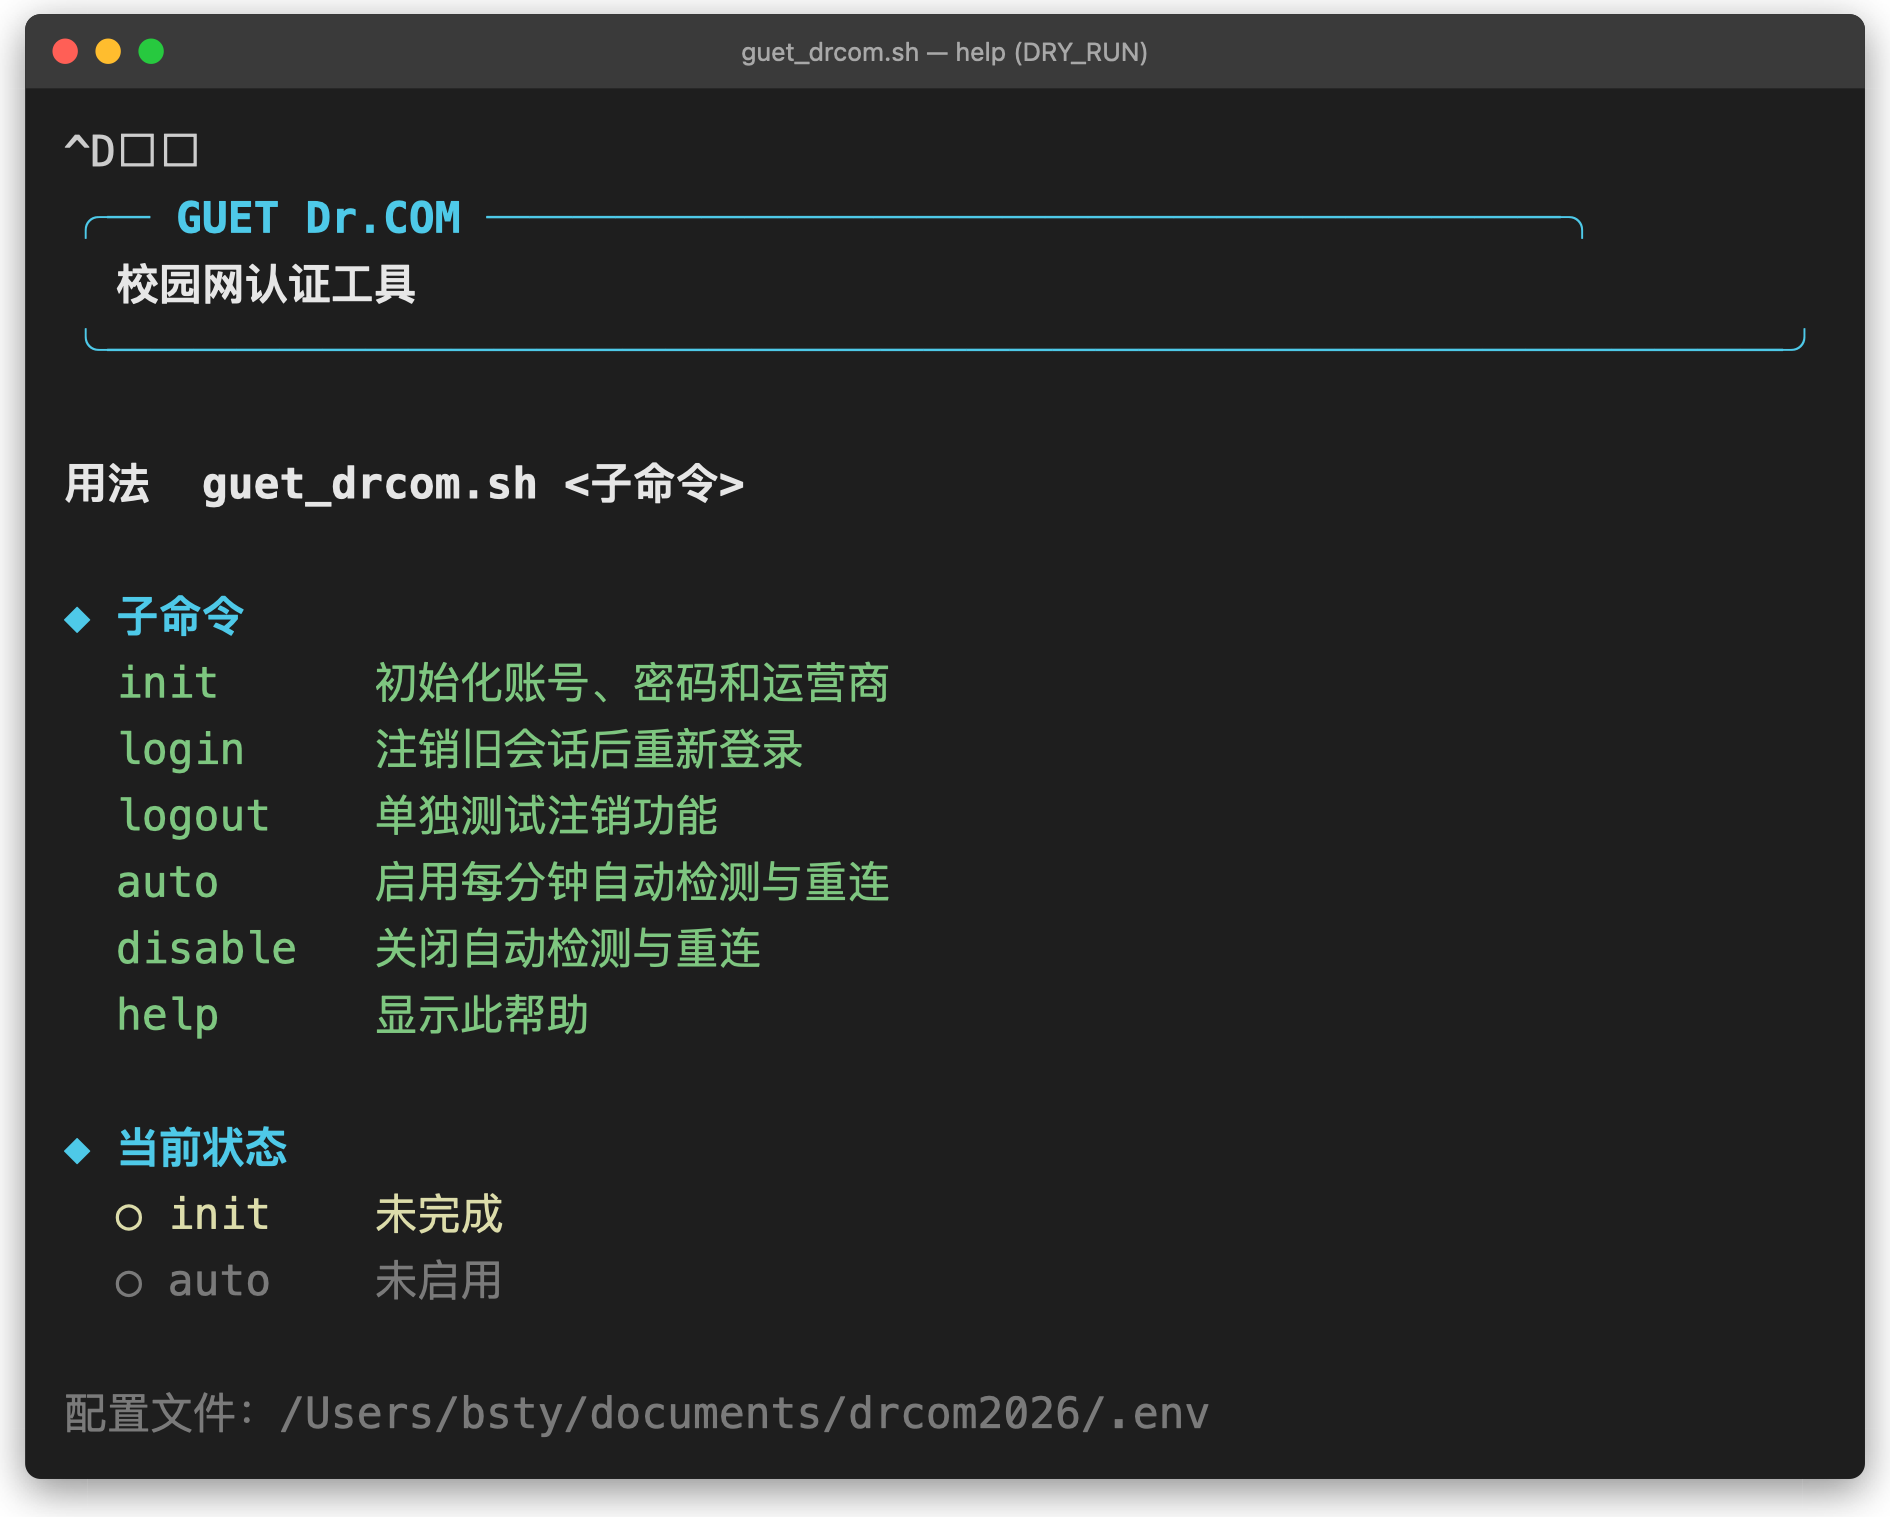
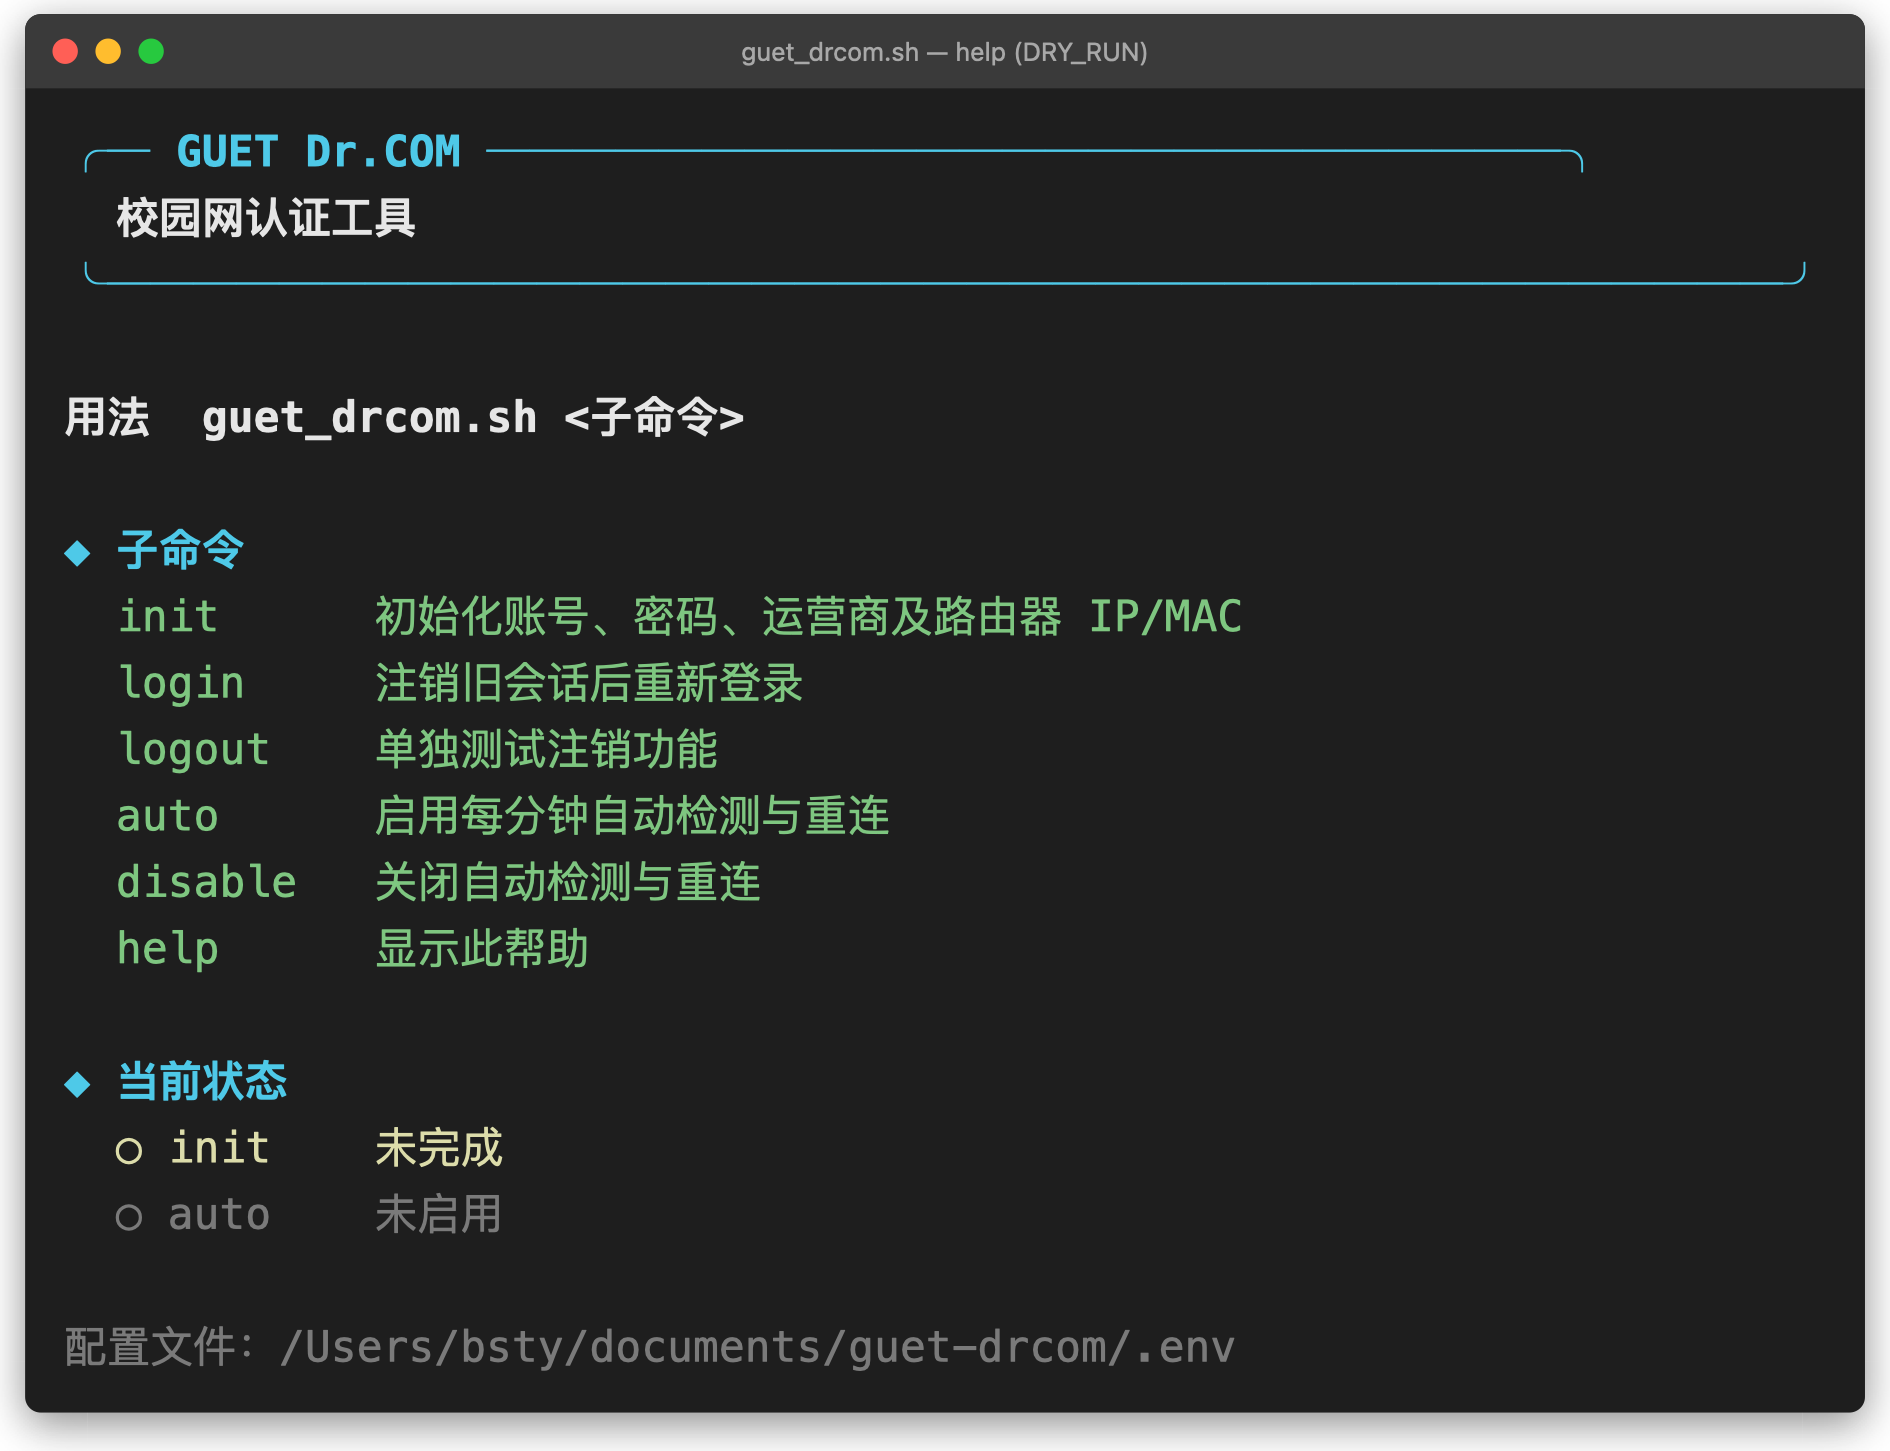
feat: 路由器模式，IP/MAC 改为 init 时手动填写
校园网口下串接路由器、设备接在 LAN 侧时，认证门户看到的是路由器
WAN 口的地址，探测本机网卡没有意义。本分支的改动：

- init 新增路由器 WAN 口 IPv4 / MAC 录入，规范化后存入配置
  （bash: DRCOM_ROUTER_IP / DRCOM_ROUTER_MAC；PowerShell: RouterIp / RouterMac）
- 删除 bash 与 PowerShell 的网卡探测逻辑及 INTERFACE / CLIENT_* 环境变量，
  login / logout / check 一律使用配置中的地址
- 不再处理 IPv6，请求中的 v6ip / wlan_user_ipv6 固定为空
- logout 现在也需要先 init
- 旧版配置缺少路由器字段时给出提示并要求重新 init
- README 说明适用场景、如何查看 WAN 口信息及 IP 变化后的处理；重新生成
  help / login / logout 截图

diff --git a/README.md b/README.md
@@ -8,6 +8,8 @@
 
 两个版本认证流程一致，按平台选其一即可。
 
+> **本分支（`router`）适用于校园网口下串接了路由器的场景**：电脑等设备接在路由器 LAN 侧，认证门户看到的是路由器 WAN 口的 IP 和 MAC，本机网卡信息无用。因此本分支不再自动探测网卡，改为在 `init` 时手动填写路由器 WAN 口的 IPv4 和 MAC，之后 `login` / `logout` / `auto` 全部使用这组地址。若设备直接接入校园网（中间没有路由器），请使用 `main` 分支。
+
 ---
 
 ## 运行示例
@@ -36,7 +38,7 @@
 在脚本目录下：
 
 ```bash
-./guet_drcom.sh init      # 初始化：填学号、密码、选运营商
+./guet_drcom.sh init      # 初始化：填学号、密码、选运营商、填路由器 WAN 口 IP/MAC
 ./guet_drcom.sh login     # 登录
 ./guet_drcom.sh auto      # 开启每分钟自动检测与重连（推荐）
 ./guet_drcom.sh disable   # 关闭自动重连
@@ -63,7 +65,7 @@ powershell -ExecutionPolicy Bypass -File .\guet_drcom.ps1 auto
 
 | 命令 | 作用 |
 |------|------|
-| `init` | 交互式录入学号、密码、运营商，生成配置文件 |
+| `init` | 交互式录入学号、密码、运营商及路由器 WAN 口 IPv4/MAC，生成配置文件 |
 | `login` | 注销旧会话后重新登录 |
 | `logout` | 单独注销 |
 | `auto` | 注册定时任务，每分钟检测掉线并自动重连 |
@@ -83,6 +85,17 @@ powershell -ExecutionPolicy Bypass -File .\guet_drcom.ps1 auto
 | 4 | 中国电信 | `@telecom` |
 | 5 | 中国广电 | `@glgd` |
 
+## 路由器 WAN 口信息
+
+`init` 最后会要求填写路由器 WAN 口的地址。登录路由器管理页（常见为 `192.168.1.1` 或 `192.168.0.1`），在「WAN 口状态」「上网设置」或「系统状态」中即可看到：
+
+| 项目 | 必填 | 说明 |
+|------|------|------|
+| IPv4 | 是 | 校园网分配给路由器 WAN 口的地址（不是电脑的 `192.168.x.x`） |
+| MAC | 是 | WAN 口 MAC；`AA:BB:CC:DD:EE:FF`、`aa-bb-cc-dd-ee-ff`、`aabbccddeeff` 均可，保存时统一为 12 位小写 |
+
+> **WAN 口 IP 变化后**（路由器重启、DHCP 重新分配等）认证会失败。此时直接改配置文件即可，无需重新 `init`：bash 版改 `.env` 里的 `DRCOM_ROUTER_IP`，Windows 版改 `guet_drcom.config.json` 里的 `RouterIp`。若路由器开启了 WAN 口 MAC 克隆/随机化，请以路由器实际对外使用的 MAC 为准。
+
 ---
 
 ## 注意事项
@@ -95,7 +108,7 @@ powershell -ExecutionPolicy Bypass -File .\guet_drcom.ps1 auto
 
 以下变量可覆盖默认值，两平台一致：
 
-`SERVER_IP`、`STATUS_URL`、`LOGIN_URL`、`LOGOUT_URL`、`LOGOUT_DELAY`、`DRY_RUN`、`AUTO_LOG`、`GUET_DRCOM_ENV`（配置文件路径），以及 `INTERFACE`/`CLIENT_IP`/`CLIENT_IPV6`/`CLIENT_MAC`（手动指定网络信息）。
+`SERVER_IP`、`STATUS_URL`、`LOGIN_URL`、`LOGOUT_URL`、`LOGOUT_DELAY`、`DRY_RUN`、`AUTO_LOG`、`GUET_DRCOM_ENV`（配置文件路径）。路由器 IP/MAC 只从配置文件读取，本分支不再支持 `INTERFACE` / `CLIENT_IP` / `CLIENT_MAC` 等环境变量覆盖。
 
 ```powershell
 # 示例：只探测网络、不真正发请求
